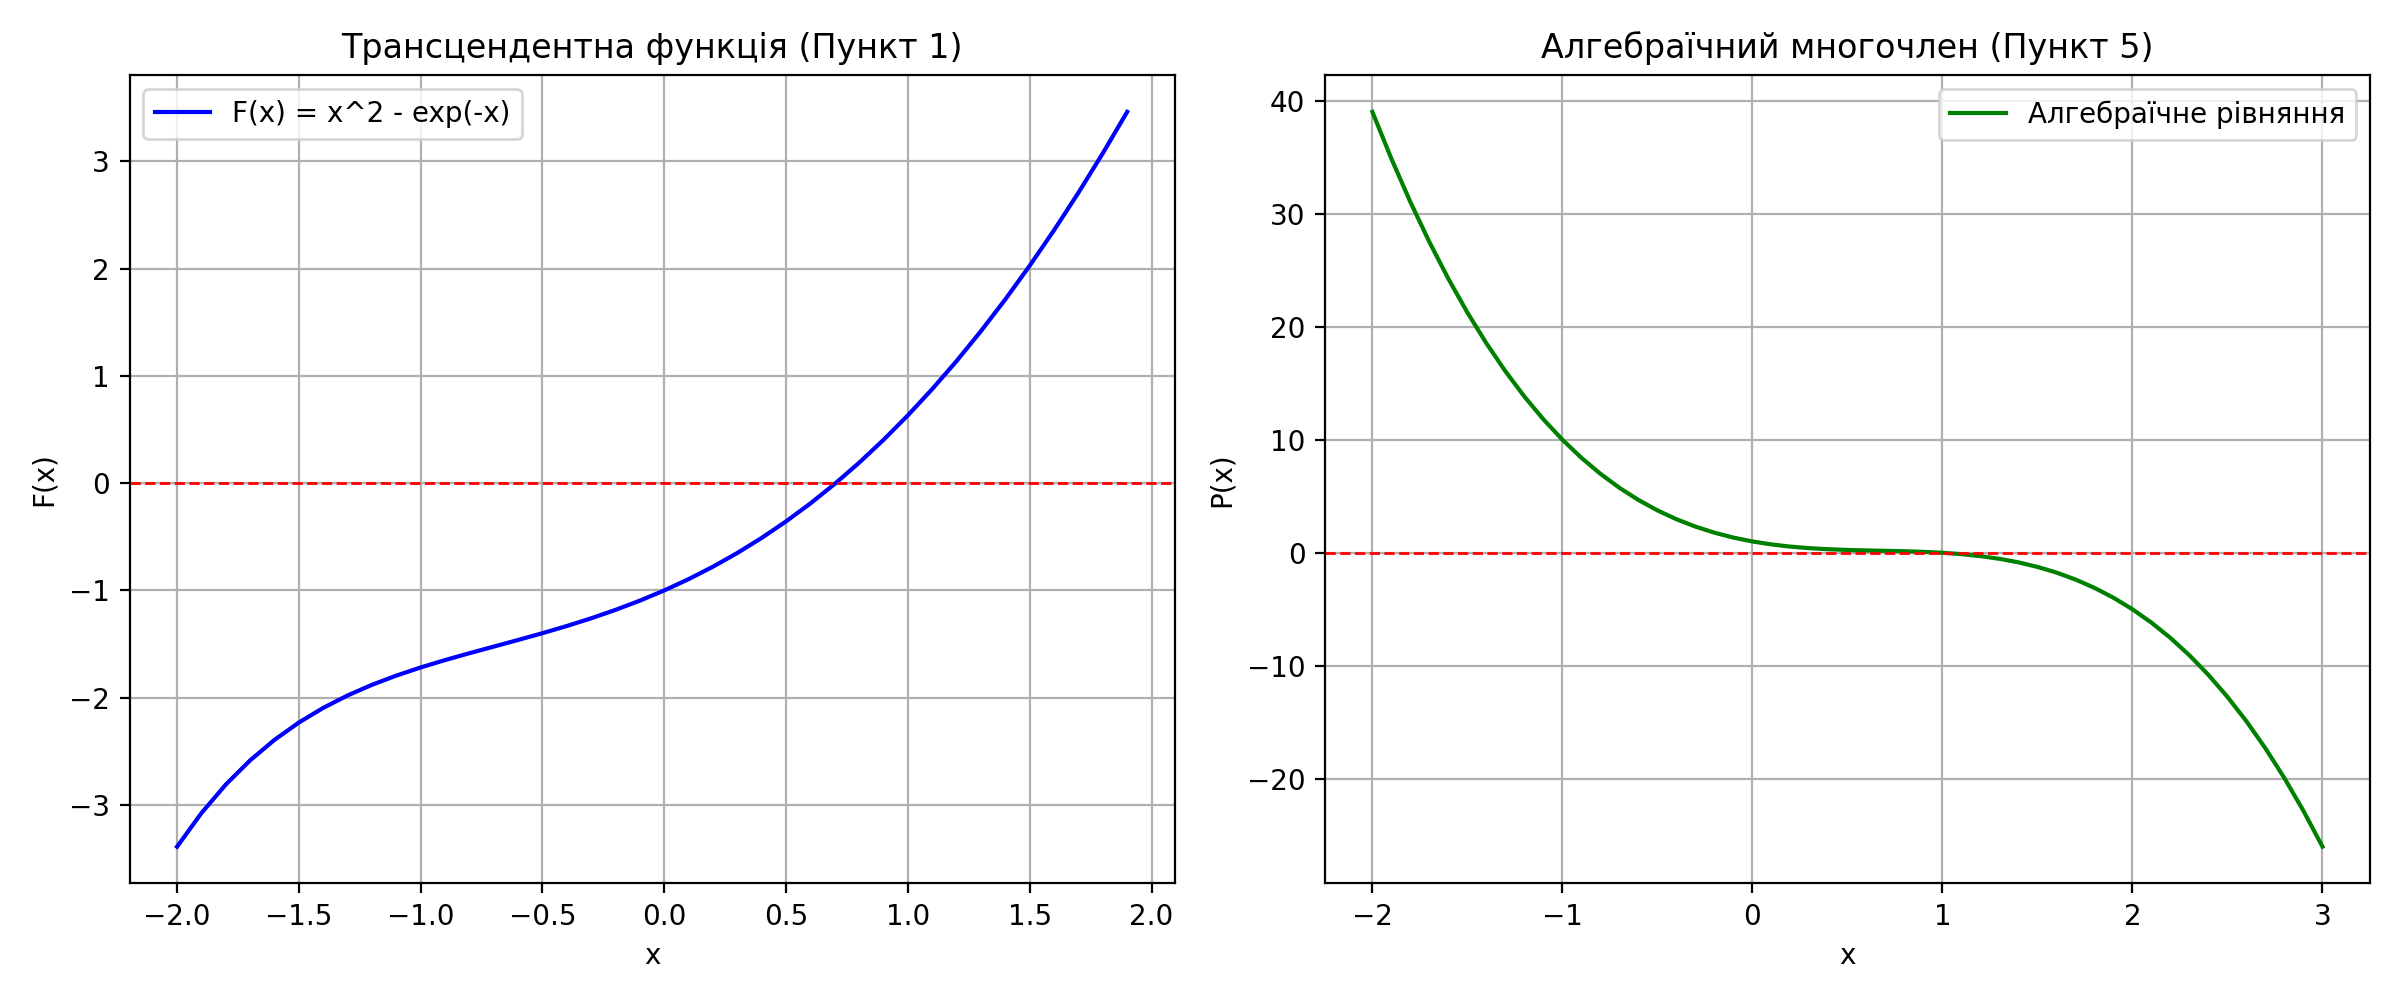
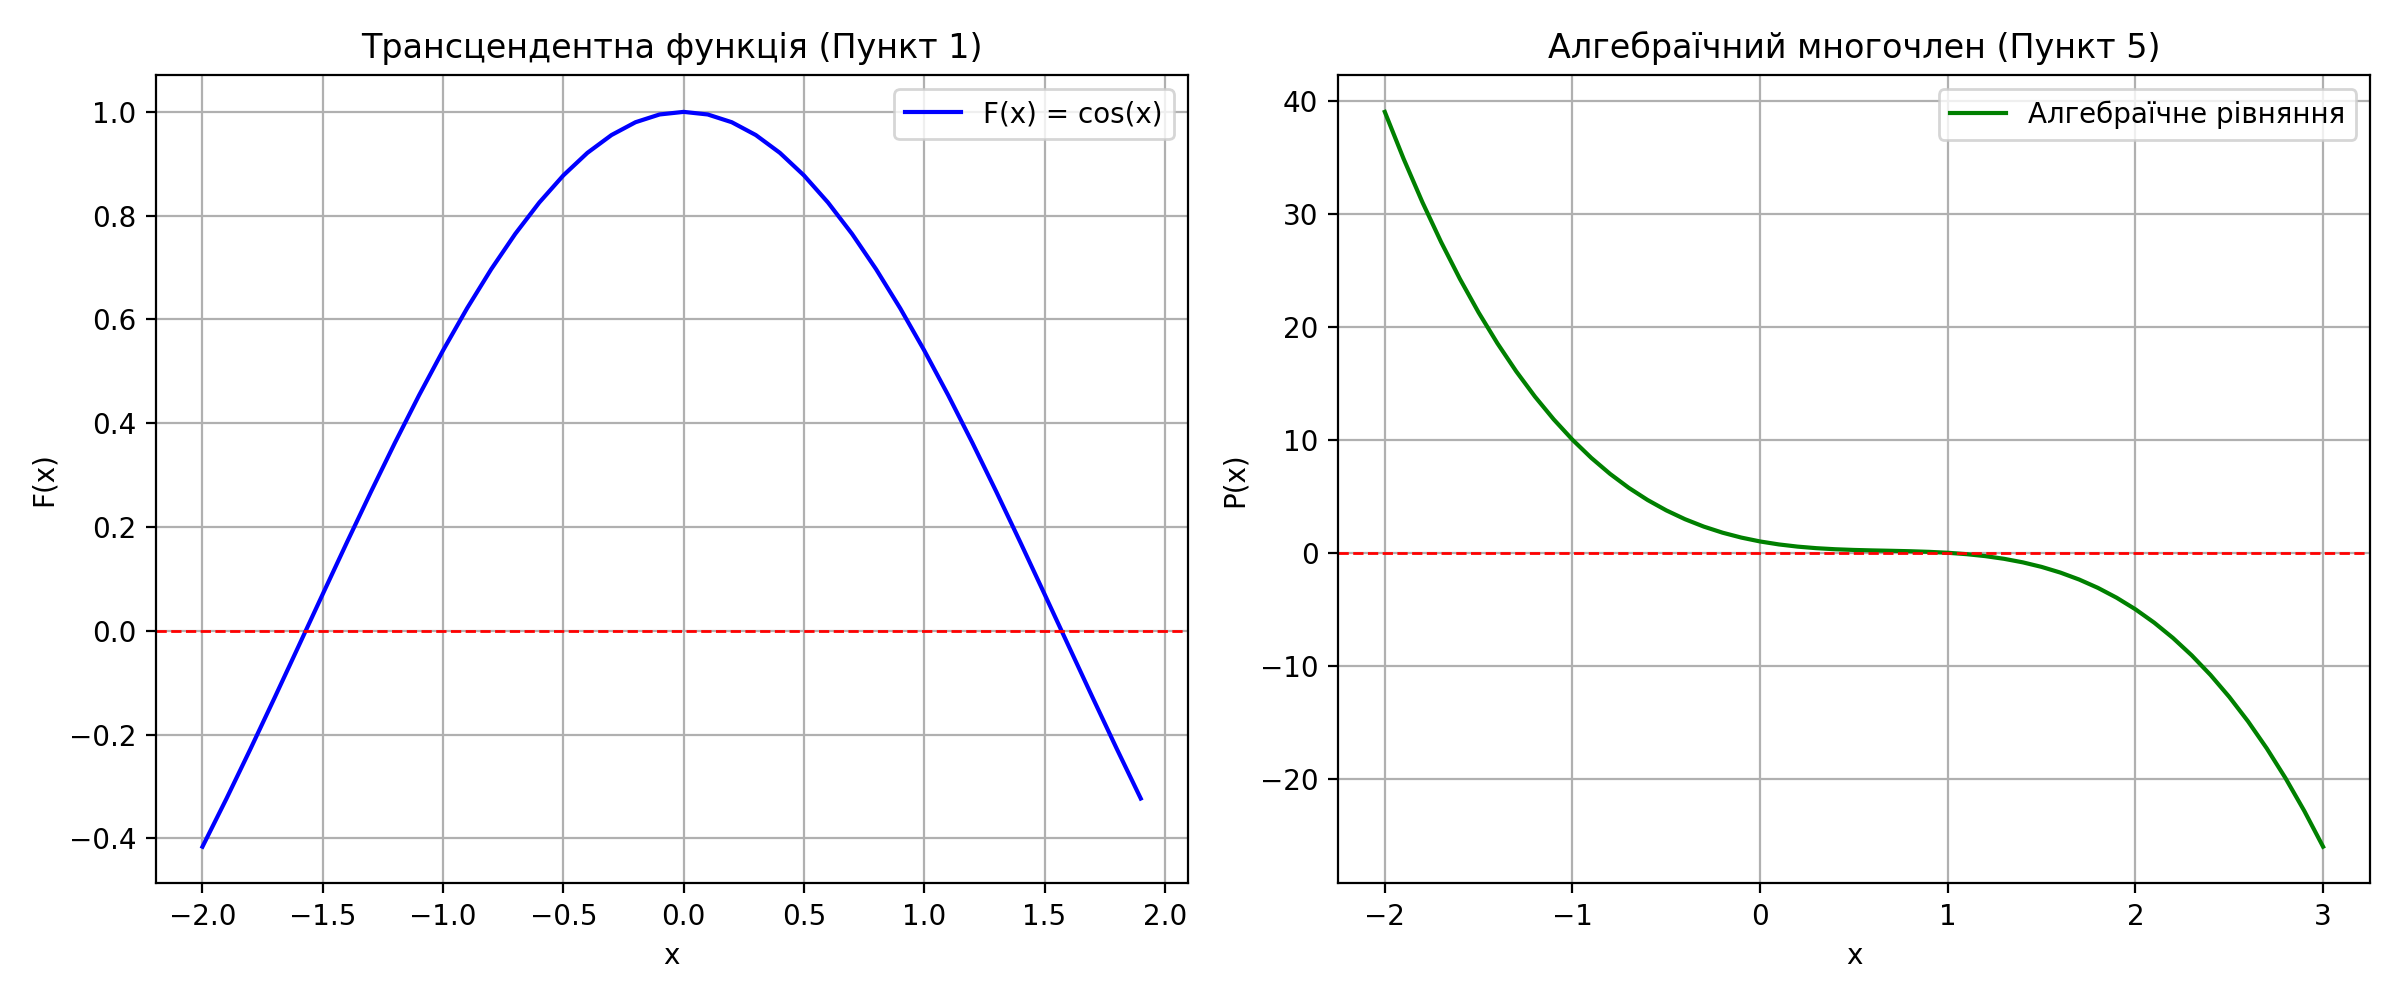
.

diff --git a/Labs/Lab8/lab8_main.py b/Labs/Lab8/lab8_main.py
@@ -5,13 +5,13 @@ import matplotlib.pyplot as plt
 BASE_DIR = Path(__file__).resolve().parent
 
 def f(x):
-    return x ** 2 - math.exp(-x)
+    return math.cos(x)
 
 def df(x):
-    return 2 * x + math.exp(-x)
+    return -math.sin(x)
 
 def ddf(x):
-    return 2 - math.exp(-x)
+    return -math.cos(x)
 
 def check_stop(x_new, x_old, eps):
     return abs(f(x_new)) < eps and abs(x_new - x_old) < eps
@@ -38,6 +38,15 @@ def eval_poly(coeffs, x):
     for i, a in enumerate(coeffs):
         res += a * (x ** (m - i))
     return res
+
+def simple_iteration(x0, tau, eps):
+    it = 0
+    x_prev = x0
+    while True:
+        it += 1
+        x_curr = x_prev + tau * f(x_prev)
+        if check_stop(x_curr, x_prev, eps): return x_curr, it
+        x_prev = x_curr
 
 def newton_method(x0, eps):
     it = 0
@@ -66,12 +75,38 @@ def secant_method(x_prev, x_curr, eps):
         if check_stop(x_next, x_curr, eps): return x_next, it
         x_prev, x_curr = x_curr, x_next
 
+def parabolic_method(x0, x1, x2, eps):
+    it = 0
+    while True:
+        it += 1
+        f01 = (f(x1) - f(x0)) / (x1 - x0)
+        f12 = (f(x2) - f(x1)) / (x2 - x1)
+        f012 = (f12 - f01) / (x2 - x0)
+        w = f12 + (x2 - x1) * f012
+        det = math.sqrt(w**2 - 4 * f(x2) * f012)
+        delta = -2 * f(x2) / (w + det if abs(w + det) > abs(w - det) else w - det)
+        x_next = x2 + delta.real
+        if abs(f(x_next)) < eps and abs(x_next - x2) < eps: return x_next, it
+        x0, x1, x2 = x1, x2, x_next
+
+def inverse_interpolation_3p(x0, x1, x2, eps):
+    it = 0
+    while True:
+        it += 1
+        y0, y1, y2 = f(x0), f(x1), f(x2)
+        x_next = (y1*y2)/((y0-y1)*(y0-y2))*x0 + \
+                 (y0*y2)/((y1-y0)*(y1-y2))*x1 + \
+                 (y0*y1)/((y2-y0)*(y2-y1))*x2
+        if abs(f(x_next)) < eps and abs(x_next - x2) < eps: return x_next, it
+        x0, x1, x2 = x1, x2, x_next
+
 def read_coeffs(filename):
     path = Path(filename)
     if not path.is_absolute():
         path = BASE_DIR / path
     with open(path, "r") as f:
         return [float(c) for c in f.read().split()]
+
 
 def horner_newton(a, x0, eps):
     n = len(a) - 1
@@ -126,7 +161,7 @@ def lin_method(a, alpha0, beta0, eps):
 def plot_graphs(x_tab, y_tab, coeffs):
     fig, (ax1, ax2) = plt.subplots(1, 2, figsize=(12, 5))
 
-    ax1.plot(x_tab, y_tab, label='F(x) = x^2 - exp(-x)', color='blue')
+    ax1.plot(x_tab, y_tab, label='F(x) = cos(x)', color='blue')
     ax1.axhline(0, color='red', linestyle='--', linewidth=1)
     ax1.set_title("Трансцендентна функція (Пункт 1)")
     ax1.set_xlabel("x")
@@ -154,17 +189,43 @@ def plot_graphs(x_tab, y_tab, coeffs):
 if __name__ == "__main__":
     EPS = 1e-10
 
+    x_st = 0.7
+    tau_val = -0.5
     x_vals, y_vals = tabulate(-2, 2, 0.1)
+    print("Алгебраїчне рівняння: F(x) = 1x^3 - 3x^2 + 4x - 2")
     coeffs = read_coeffs("coefficients.txt")
+    print("Коефіціїнти: ", coeffs,"\n")
     print("1. Табуляцію завершено (див. tabulation.txt)")
 
     plot_graphs(x_vals, y_vals, coeffs)
 
-    x_start = 0.7
-    print("\n2. Трансцендентне рівняння (x^2 - exp(-x) = 0):")
-    print(f"   Ньютон: {newton_method(x_start, EPS)}")
-    print(f"   Чебишев: {chebyshev_method(x_start, EPS)}")
-    print(f"   Метод Хорд: {secant_method(0.6, 0.8, EPS)}")
+    x_start = 1.0
+    print("РЕЗУЛЬТАТИ ДЛЯ ТРАНСЦЕНДЕНТНОГО РІВНЯННЯ:")
+    res_si = simple_iteration(x_st, tau_val, EPS)
+    print(f"1. Проста ітерація:        x = {abs(res_si[0]):.10f}, ітерацій: {res_si[1]}")
+
+    res_n = newton_method(x_st, EPS)
+    print(f"2. Метод Ньютона:          x = {res_n[0]:.10f}, ітерацій: {res_n[1]}")
+
+    res_ch = chebyshev_method(x_st, EPS)
+    print(f"3. Метод Чебишева:         x = {res_ch[0]:.10f}, ітерацій: {res_ch[1]}")
+
+    res_sec = secant_method(0.6, 0.8, EPS)
+    print(f"4. Метод хорд:             x = {res_sec[0]:.10f}, ітерацій: {res_sec[1]}")
+
+    res_par = parabolic_method(0.5, 0.6, 0.7, EPS)
+    print(f"5. Метод парабол:          x = {res_par[0]:.10f}, ітерацій: {res_par[1]}")
+
+    res_inv = inverse_interpolation_3p(0.5, 0.6, 0.7, EPS)
+    print(f"6. Зворотна інтерполяція:  x = {res_inv[0]:.10f}, ітерацій: {res_inv[1]}")
+
+    print("-" * 50)
+    print("РЕЗУЛЬТАТИ ДЛЯ АЛГЕБРАЇЧНОГО РІВНЯННЯ:")
+    res_h = horner_newton(coeffs, 1.5, EPS)
+    print(f"Дійсний корінь (Горнер):   x = {res_h[0]:.10f}, ітерацій: {res_h[1]}")
+
+    res_l = lin_method(coeffs, 0.5, 0.5, EPS)
+    print(f"Комплексний корінь (Лін):  x = {res_l[0]}, ітерацій: {res_l[1]}")
 
     print("\n3. Алгебраїчне рівняння (з coefficients.txt):")
     real_root, h_it = horner_newton(coeffs, 1.5, EPS)

diff --git a/Labs/Lab9/lab9_main.py b/Labs/Lab9/lab9_main.py
@@ -5,6 +5,7 @@ def f1(x):
     #x1^2 + x2^2 - 4 = 0
     return x[0] ** 2 + x[1] ** 2 - 4
 
+
 def f2(x):
     #x2 - exp(x1) = 0
     return x[1] - np.exp(x[0])
@@ -62,11 +63,11 @@ def hooke_jeeves(x0, delta, eps1, eps2, q=2.0, p=2.0):
 
 if __name__ == "__main__":
     X0 = np.array([-1.0, 1.0])
-    DELTA = np.array([0.2, 0.2])  #Початковий крок
-    EPS1 = 1e-4  #Точність по координатах
-    EPS2 = 1e-5  #Точність по функції
-    Q_STEP = 2.0  #Коефіцієнт зменшення кроку
-    P_ACCEL = 1.0  #Коефіцієнт прискорення p
+    DELTA = np.array([0.2, 0.2])
+    EPS1 = 1e-4
+    EPS2 = 1e-5
+    Q_STEP = 2.0
+    P_ACCEL = 1.0
 
     print("Пошук мінімуму методом Хука-Дживса:")
     result, path = hooke_jeeves(X0, DELTA, EPS1, EPS2, Q_STEP, P_ACCEL)
